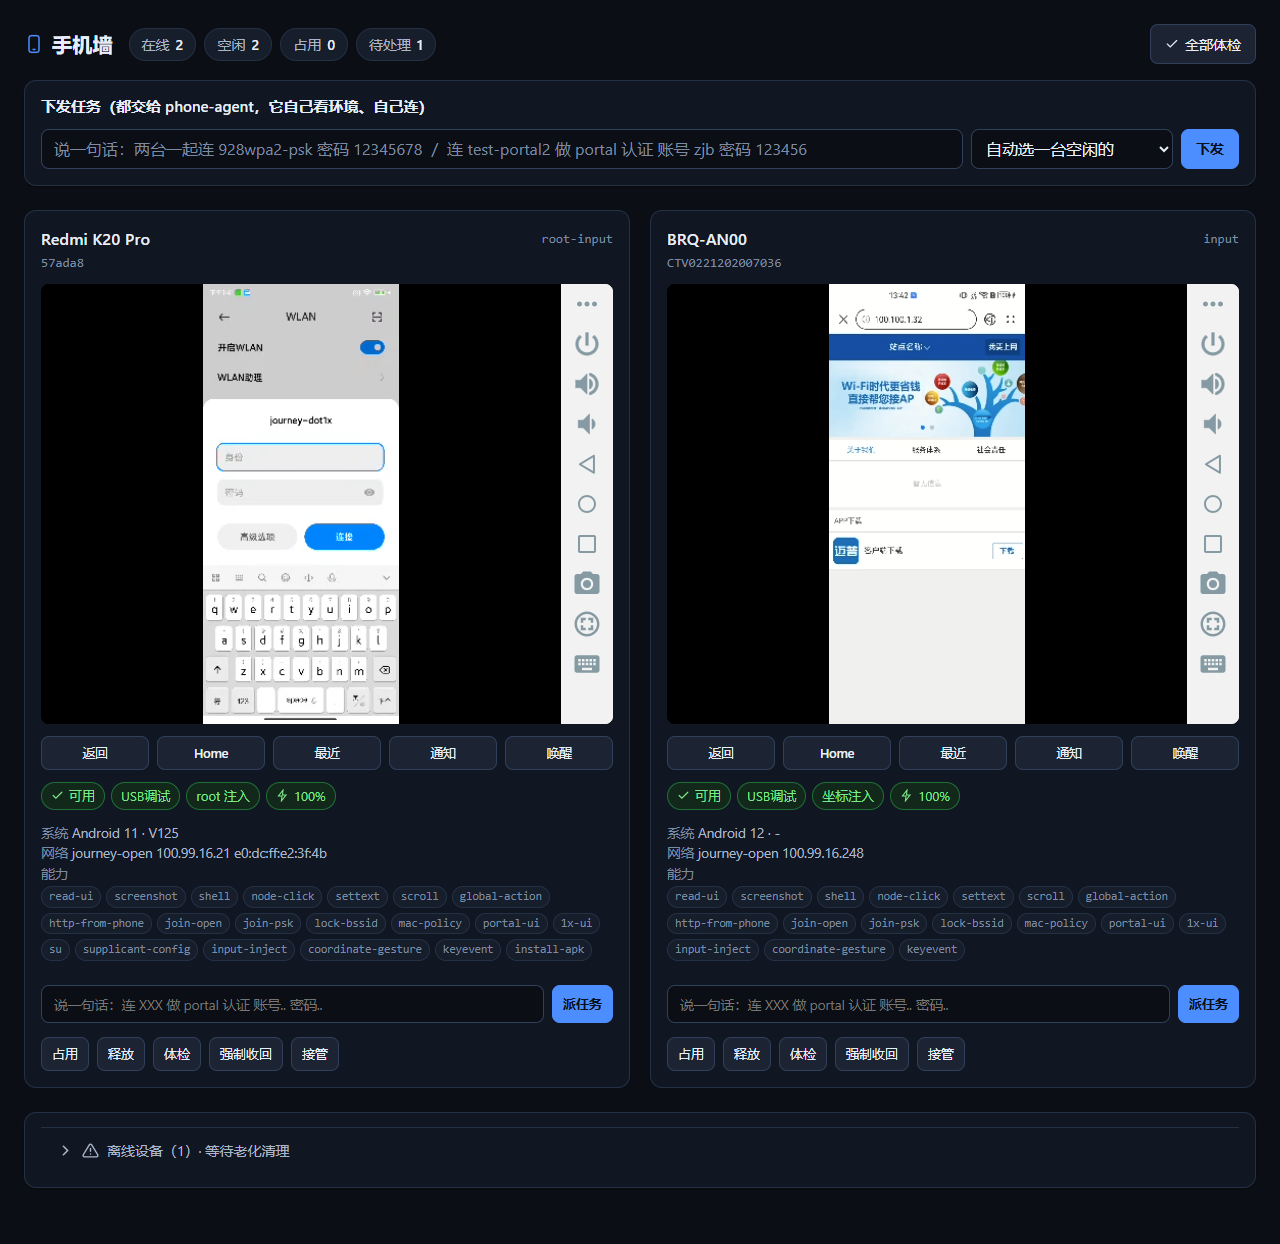
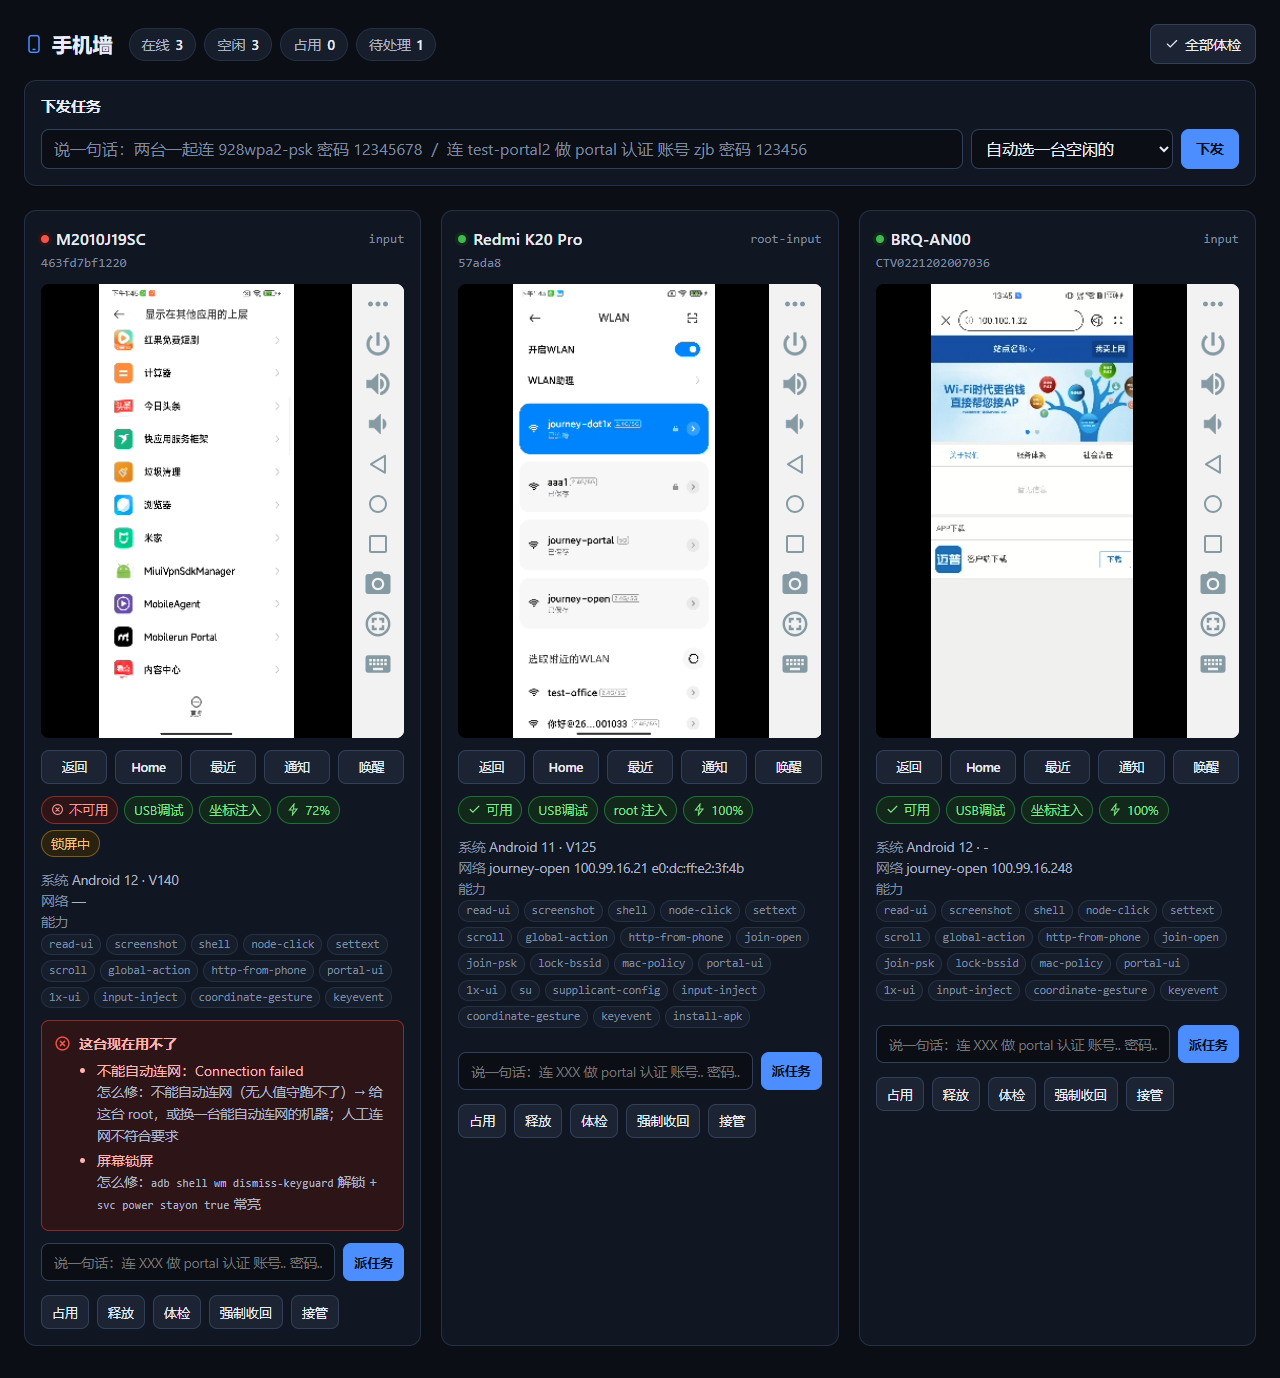
style(wall): 卡片等高、操作按钮底部对齐、标题状态点（绿=可用/红=不可用/黄=占用）、标题文案收敛

diff --git a/src/wall/wall-page.html b/src/wall/wall-page.html
@@ -118,11 +118,16 @@ svg{width:1em;height:1em;flex:0 0 auto;vertical-align:-.125em}
 #agedSummary svg{width:17px;height:17px}
 #agedList .chk svg{width:16px;height:16px}
 .wrap{max-width:1560px;margin:0 auto}
-.grid{grid-template-columns:repeat(auto-fit,minmax(340px,1fr));gap:20px;align-items:start}
+.grid{grid-template-columns:repeat(auto-fit,minmax(340px,1fr));gap:20px;align-items:stretch}
 .card{padding:16px;gap:12px}
-.screenframe{min-height:440px}
+.screenframe{min-height:0;width:100%;aspect-ratio:4/5;background:#0b0e14}
 .screen-wrap{min-height:0}
-.card-title{font-size:16px;letter-spacing:.01em}
+.actions{margin-top:auto}
+.card-title{font-size:16px;letter-spacing:.01em;display:flex;align-items:center;gap:7px}
+.card-title .dot{width:8px;height:8px;border-radius:50%;background:var(--ok);box-shadow:0 0 0 3px var(--ok-bg);flex:0 0 auto}
+.card.is-offline .card-title .dot{background:var(--danger);box-shadow:0 0 0 3px var(--danger-bg)}
+.card.is-busy .card-title .dot{background:var(--warn);box-shadow:0 0 0 3px var(--warn-bg)}
+.card.is-unusable .card-title .dot{background:var(--danger);box-shadow:0 0 0 3px var(--danger-bg)}
 .meta{font-size:13.5px;line-height:1.55;color:var(--text-2)}
 .caps{display:flex;flex-wrap:wrap;gap:5px;margin-top:2px}
 .caps .cap{font-family:ui-monospace,Menlo,Consolas,monospace;font-size:11.5px;line-height:1;
@@ -201,7 +206,7 @@ details .body{padding:0 var(--sp-4) var(--sp-4)}
 </header>
 
 <section class="command">
-  <h2>下发任务（都交给 phone-agent，它自己看环境、自己连）</h2>
+  <h2>下发任务</h2>
   <div class="row">
     <input type="text" id="gtext" placeholder="说一句话：两台一起连 928wpa2-psk 密码 12345678 ／ 连 test-portal2 做 portal 认证 账号 zjb 密码 123456">
     <select id="gtarget">
@@ -289,7 +294,7 @@ function makeCard(dev){
   const c=document.createElement('article');c.className='card';c.id='card-'+dev.serial;
   c.innerHTML=`
     <div class="card-head">
-      <div><div class="card-title">${esc(dev.model||dev.serial)}</div>
+      <div><div class="card-title"><span class="dot"></span>${esc(dev.model||dev.serial)}</div>
            <div class="card-sub">${esc(dev.serial)}</div></div>
       <div class="card-sub">${dev.backend||''}</div>
     </div>
@@ -333,7 +338,7 @@ function makeCard(dev){
 }
 
 function updateCard(c,dev){
-  c.className='card'+(dev.state==='busy'?' is-busy':'')+(dev.present?'':' is-offline');
+  c.className='card'+(dev.state==='busy'?' is-busy':'')+(dev.present?'':' is-offline')+(dev.usable===false?' is-unusable':'');
   c.querySelector('.badges').innerHTML=badges(dev);
   c.querySelector('.meta').innerHTML=
     `<span class="k">系统</span> Android ${dev.android} · ${dev.miui||'-'}\n`+
